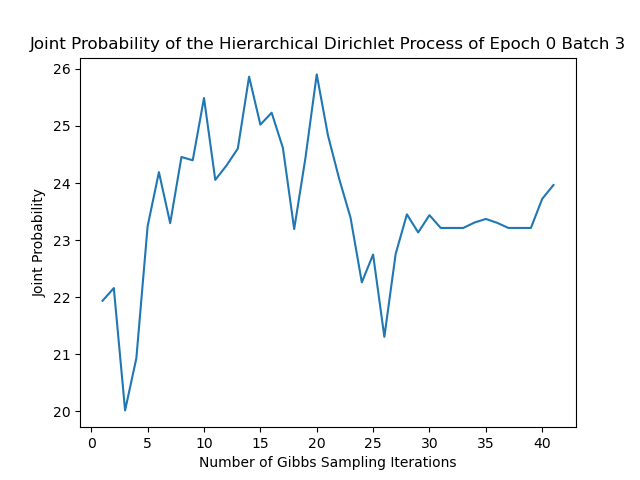
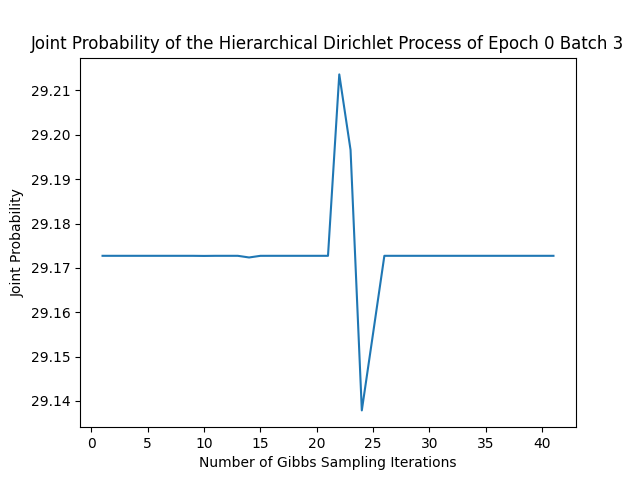
gibbs delete early samples

diff --git a/src/hdp.py b/src/hdp.py
@@ -16,14 +16,14 @@ import random
 import os
 from tqdm import trange
 
-from utils import transfer_index_tensor_to_tuple, transfer_index_tuple_to_tensor, calc_sequential_stick_breaking_weight, print_tree, INFO
+from utils import transfer_index_tensor_to_tuple, transfer_index_tuple_to_tensor, calc_sequential_stick_breaking_weight, print_tree, INFO, HDP_DIST_INFO
 
 
 PyTree = Union[jnp.ndarray, List['PyTree'], Tuple['PyTree', ...], Dict[Any, 'PyTree']]
 
 
 class HierarchicalDirichletProcess:
-    def __init__(self, latent_dimension: int, layers: int, batch_size: int, truncated_length: int, fixed_layers: dict = None):
+    def __init__(self, latent_dimension: int, layers: int, batch_size: int, truncated_length: int, slot_limit: int, fixed_layers: dict = None):
         '''
         Initialize a Hierarchical Dirichlet Process with layers
 
@@ -36,8 +36,8 @@ class HierarchicalDirichletProcess:
         ########################################################################################
         # fixed features
         ########################################################################0################
-        # self.device = torch.device("cuda" if torch.cuda.is_available() else "cpu")
-        self.device = torch.device("cpu")
+        self.device = torch.device("cuda" if torch.cuda.is_available() else "cpu")
+        # self.device = torch.device("cpu")
 
         self.batch_size = batch_size
         # int: the number of samples in each round
@@ -101,6 +101,14 @@ class HierarchicalDirichletProcess:
         # list of dict: the cumulative weights of all parameters in each category in each level across different batches
         #  - key: the parent category
         #  - value: the cumulative counts of all parameters
+
+        self.dist_slots = []
+        # list of HDP_DIST_INFO: the distribution information stored in batches to represent the model learnt distribution
+
+        self.dist_slot_limit = slot_limit
+        # int: the number of distribution information stored in the model (early batch will be substituted by the new batch if slot is full
+
+        self.current_slot_size = 0
 
         self.latent_distribution_indices = torch.zeros(self.batch_size, dtype=torch.int, device=self.device)
         # torch.Tensor: the parameter indices of each sample
@@ -475,7 +483,36 @@ class HierarchicalDirichletProcess:
                             self.cumulative_weights[level][category] = param_count
                         else:
                             self.cumulative_weights[level][category] += param_count
-            
+    
+    def update_batch_dist_info(self):
+        '''
+        Store the information of the batch
+        '''
+        batch_info = HDP_DIST_INFO(self.number_of_subcategories, self.labels_group_by_categories, self.latent_distribution_indices)
+        if (self.current_slot_size < self.dist_slot_limit):
+            self.dist_slots.append(batch_info)
+            self.current_slot_size += 1
+        else:
+            batch_info_to_remove = self.dist_slots.pop(0)
+            self.dist_slots.append(batch_info)
+            self.delete_early_samples_in_cumulated_weights(batch_info_to_remove)
+        
+    def delete_early_samples_in_cumulated_weights(self, batch_info_to_remove: HDP_DIST_INFO):
+        '''
+        Denoise the cumulated weights of the Hierarchical Dirichlet Process
+        '''
+        for level in range(self.layers):
+            for category in batch_info_to_remove.number_of_subcategories[level].keys():
+                indice = batch_info_to_remove.labels_group_by_categories[level][category]
+                if (indice is None):
+                    continue
+                else:
+                    parameters = batch_info_to_remove.latent_distribution_indices[indice]
+                    unique_parameters, count = torch.unique(parameters, return_counts=True)
+                    param_count = torch.zeros(self.truncate_length, device = self.device)
+                    param_count[unique_parameters.flatten()] += count
+                    self.cumulative_weights[level][category] -= param_count
+
     def posterior_update_of_distributions(self):
         '''
         Update the posteriors of the Hierarchical Dirichlet Process
@@ -562,16 +599,21 @@ class HierarchicalDirichletProcess:
         learning.close()
         if (not test):
             self.update_cumulated_weights()
+            self.update_batch_dist_info()
 
     def infer_dataloader(self, number_of_iterations: int, dataloader: DataLoader):
         '''
         Infer the Hierarchical Dirichlet Process using Gibbs Sampling with a dataloader
         '''
         batch_index = 0
+        directory = '../results/printouts/hdp/'
+        if not os.path.exists(directory):
+            os.makedirs(directory)
         for data, label in dataloader:
             batch_index += 1
             self.gibbs_update(0, batch_index, number_of_iterations, data, True)
-            self.display_hierarchical_results(label)
+            file = directory + "hdp_batch{}.txt".format(batch_index)
+            self.display_hierarchical_results(label, file)
 
     def gibbs_dataloader_update(self, epochs: int, number_of_iterations: int, dataloader: DataLoader, test: bool = False):
         '''
@@ -630,12 +672,12 @@ class HierarchicalDirichletProcess:
                         tree[cc] = {"labels": self.labels_group_by_categories[-1][cc], "weights": self.hierarchical_distributions[-1][cc]}
         return root
     
-    def display_hierarchical_results(self, ground_truth: torch.Tensor = None):
+    def display_hierarchical_results(self, ground_truth: torch.Tensor = None, file: str = None):
         '''
         Display the hierarchical results of the Hierarchical Dirichlet Process
         '''
         label_hierarchy = self.summarize_hierarchical_results(ground_truth)
-        print_tree(label_hierarchy)
+        print_tree(label_hierarchy, file)
 
     def _increase_categories(self, new_categories: list, new_labels: list): 
         '''
@@ -989,22 +1031,20 @@ def generate_pseudo_samples(data_sizes: list, dimension: int, sample_size: int):
 if __name__ == "__main__":
 
     input_dimen = 10
-    batch_size = 20
+    batch_size = 50
     number_of_latent_sample = 10
-    data_sizes = [105, 10, 105]
+    data_sizes = [1050, 100, 1050]
+    slot_limit = sum(data_sizes)//batch_size
 
     train_x, train_y = generate_pseudo_samples(data_sizes, input_dimen, number_of_latent_sample)
     for (x, y) in zip(train_x, train_y):
         print("data", x)
         print("label", y)
-
     gibbs_sampling_iterations = 50
 
     latentloader = DataLoader(TensorDataset(train_x, train_y), batch_size=batch_size, shuffle=True)
 
-    hp = HierarchicalDirichletProcess(latent_dimension=input_dimen, layers=3, batch_size=batch_size, truncated_length=10, fixed_layers={2: 3})
-
+    hp = HierarchicalDirichletProcess(latent_dimension=input_dimen, layers=3, batch_size=batch_size, truncated_length=10, slot_limit=slot_limit, fixed_layers={2: 10})
     hp.gibbs_dataloader_update(epochs=10, number_of_iterations=gibbs_sampling_iterations, dataloader=latentloader)
-    
     hp.infer_dataloader(number_of_iterations=gibbs_sampling_iterations, dataloader=latentloader)
 

diff --git a/src/utils.py b/src/utils.py
@@ -6,8 +6,23 @@ from pyro.distributions import Categorical
 from typing import Any, Union, List, Tuple, Dict
    
 
+class HDP_DIST_INFO:
+    def __init__(self, number_of_subcategories: dict, labels_group_by_categories: dict, latent_distribution_indices: torch.Tensor) -> None:
+        self.number_of_subcategories = number_of_subcategories
+        self.labels_group_by_categories = labels_group_by_categories
+        self.latent_distribution_indices = latent_distribution_indices
+    
+    def get_number_of_subcategories(self):
+        return self.number_of_subcategories
+    
+    def get_labels_group_by_categories(self):
+        return self.labels_group_by_categories
+    
+    def get_latent_distribution_indices(self):
+        return self.latent_distribution_indices
+    
 class INFO:
-    def __init__(self, count, label, param) -> None:
+    def __init__(self, count: int, label: torch.Tensor, param: torch.Tensor) -> None:
         self.count = count
         self.label = label
         self.param = param
@@ -67,18 +82,34 @@ def transfer_index_tuple_to_tensor(indices: list):
     return torch.stack(index_tensor)
 
 
-def print_tree(d, indent=0):
+def print_tree(d, indent:int =0, file: str = None):
     # Loop through dictionary items
-    for key, value in d.items():
-        # Print the key with proper indentation
-        print('    ' * indent + str(key))
-        
-        # If value is another dictionary, recursively call the function
-        if isinstance(value, dict):
-            print_tree(value, indent + 1)
-        # If the value is a tensor, print its content
-        elif isinstance(value, torch.Tensor):
-            print('    ' * (indent + 1) + f'Tensor: {value}')
-        else:
-            # Print the value with additional indentation
-            print('    ' * (indent + 1) + str(value))
+    if (file != None):
+        with open(file, 'w') as f:
+            for key, value in d.items():
+                # Print the key with proper indentation
+                print('    ' * indent + str(key), file=f)
+                
+                # If value is another dictionary, recursively call the function
+                if isinstance(value, dict):
+                    print_tree(value, indent + 1, file=f)
+                # If the value is a tensor, print its content
+                elif isinstance(value, torch.Tensor):
+                    print('    ' * (indent + 1) + f'Tensor: {value}', file=f)
+                else:
+                    # Print the value with additional indentation
+                    print('    ' * (indent + 1) + str(value), file=f)
+    else:  
+        for key, value in d.items():
+            # Print the key with proper indentation
+            print('    ' * indent + str(key))
+            
+            # If value is another dictionary, recursively call the function
+            if isinstance(value, dict):
+                print_tree(value, indent + 1)
+            # If the value is a tensor, print its content
+            elif isinstance(value, torch.Tensor):
+                print('    ' * (indent + 1) + f'Tensor: {value}')
+            else:
+                # Print the value with additional indentation
+                print('    ' * (indent + 1) + str(value))
